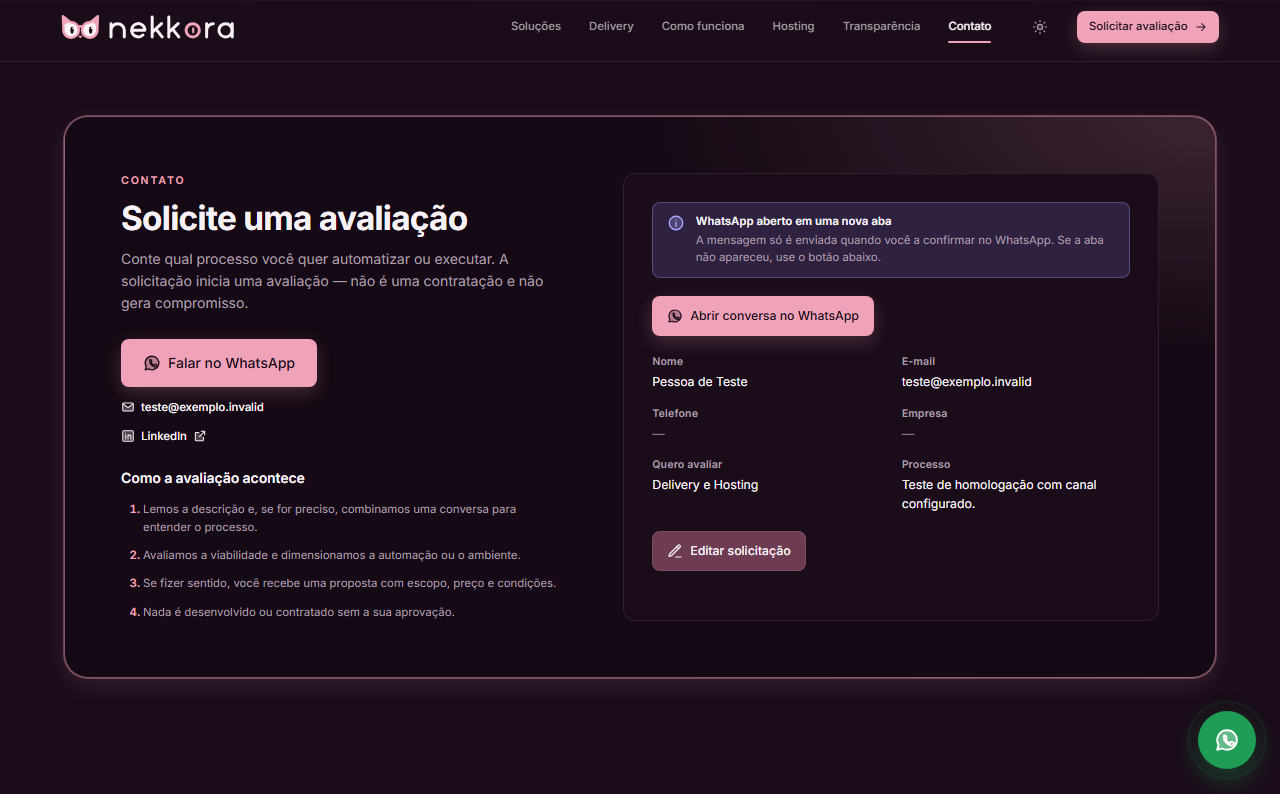
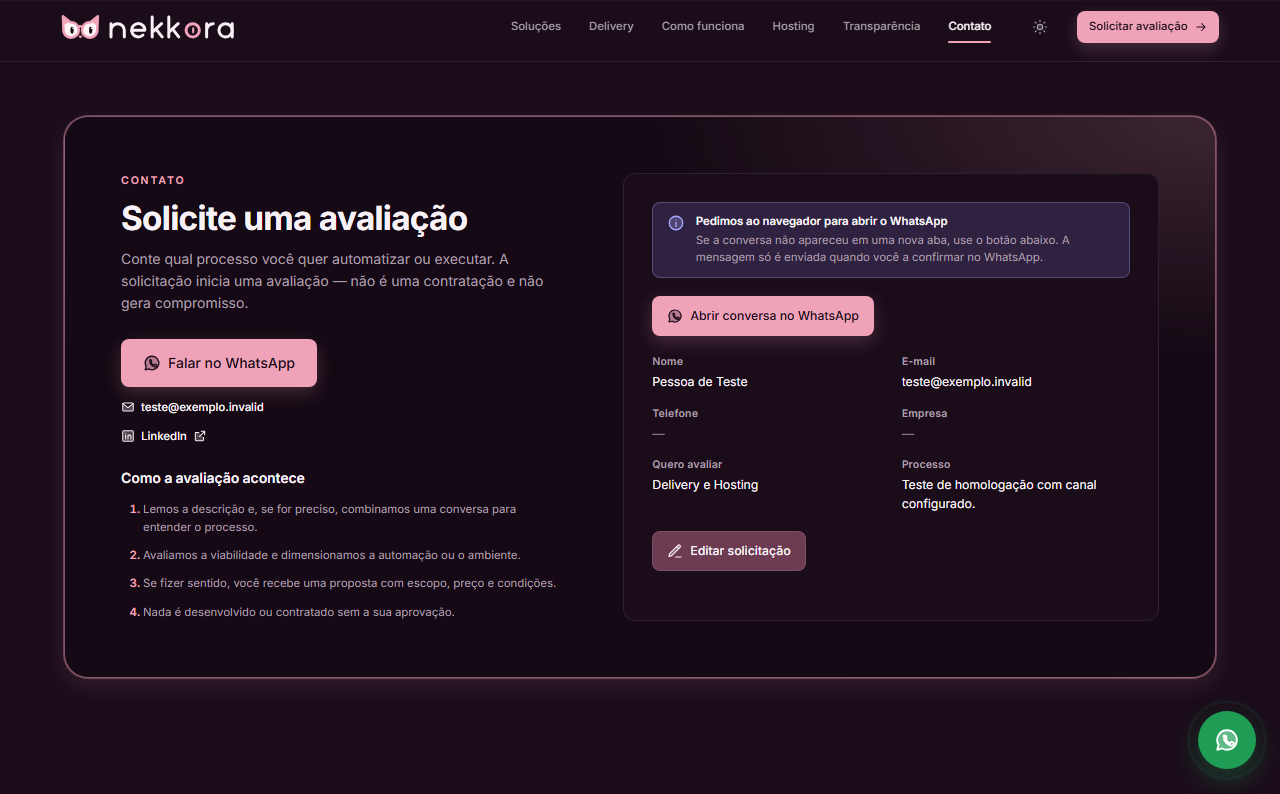
fix(com-001-r1): abrir WhatsApp com noopener,noreferrer desde a abertura
Ajuste de segurança da revisão de encerramento da R1.

- window.open volta a usar 'noopener,noreferrer'. A versão anterior
  anulava o opener depois da abertura (intervalo sem garantia) e enviava o
  Referer à aba externa — comprovado em controle negativo.
- Sem detecção de aba: a página diz só que pediu a abertura e mostra
  sempre o link manual (rel="noopener noreferrer") com a mensagem pronta.
- homologacao-canais: wa.me respondido por página local; opener e Referer
  medidos na aba aberta, sem mascarar erros (16/16). Controle negativo
  registrado em docs/com-001/evidencias/controle-negativo-r1.

Changed region(s): [[0.5312, 0.272, 0.8438, 0.3325]]

diff --git a/src/sections/Contact.tsx b/src/sections/Contact.tsx
@@ -24,8 +24,8 @@ function ContactForm() {
   const [message, setMessage] = useState('');
   const [errors, setErrors] = useState<Errors>({});
   const [reviewed, setReviewed] = useState(false);
-  /** Resultado da tentativa de abrir o WhatsApp: só "aberto" se o navegador devolveu a nova aba. */
-  const [whatsapp, setWhatsapp] = useState<{ url: string; opened: boolean } | null>(null);
+  /** Link do WhatsApp com a mensagem montada — exibido sempre como alternativa manual. */
+  const [whatsapp, setWhatsapp] = useState<string | null>(null);
   const canSend = whatsappUrl() != null;
   const interestLabel = CONTACT_COPY.interests.find((i) => i.value === interest)?.label;
 
@@ -55,11 +55,11 @@ function ContactForm() {
         `Contato: ${email.trim()}${phone ? ` · ${phone}` : ''}`,
       ].join('\n\n');
       const url = whatsappUrl(text)!;
-      // Sem "noopener" na lista de features: com ele, window.open devolve sempre null e não dá para saber se o
-      // navegador bloqueou a aba. O vínculo com esta página é cortado logo em seguida (mesmo efeito do noopener).
-      const win = window.open(url, '_blank');
-      if (win) win.opener = null;
-      setWhatsapp({ url, opened: win != null });
+      // noopener,noreferrer desde a abertura: a aba externa nunca recebe referência a esta página nem o Referer.
+      // Com essas features o navegador não informa se a aba foi criada, então a página só diz que a abertura foi
+      // solicitada e oferece sempre o link manual (D-18).
+      window.open(url, '_blank', 'noopener,noreferrer');
+      setWhatsapp(url);
     }
     setReviewed(true);
   };
@@ -74,14 +74,10 @@ function ContactForm() {
       <div ref={doneRef} tabIndex={-1} className="contact__form contact__done">
         {whatsapp ? (
           <>
-            <Alert
-              tone={whatsapp.opened ? 'info' : 'warning'}
-              title={whatsapp.opened ? CONTACT_COPY.whatsappOpened.title : CONTACT_COPY.whatsappBlocked.title}
-              live="polite"
-            >
-              {whatsapp.opened ? CONTACT_COPY.whatsappOpened.text : CONTACT_COPY.whatsappBlocked.text}
+            <Alert tone="info" title={CONTACT_COPY.whatsappRequested.title} live="polite">
+              {CONTACT_COPY.whatsappRequested.text}
             </Alert>
-            <Button leftIcon="whatsapp" href={whatsapp.url} target="_blank" rel="noopener noreferrer" style={{ alignSelf: 'flex-start' }}>
+            <Button leftIcon="whatsapp" href={whatsapp} target="_blank" rel="noopener noreferrer" style={{ alignSelf: 'flex-start' }}>
               {CONTACT_COPY.whatsappManual}
             </Button>
           </>

diff --git a/src/content.ts b/src/content.ts
@@ -301,14 +301,10 @@ export const CONTACT_COPY = {
   demoSubmit: 'Revisar solicitação',
   whatsappSubmit: 'Enviar pelo WhatsApp',
   whatsappNote: 'Ao enviar, abrimos o WhatsApp com a sua mensagem pronta. Nada é armazenado nesta página.',
-  // Nunca afirmar envio: a página só sabe se a aba foi aberta, não se a mensagem foi enviada.
-  whatsappOpened: {
-    title: 'WhatsApp aberto em uma nova aba',
-    text: 'A mensagem só é enviada quando você a confirmar no WhatsApp. Se a aba não apareceu, use o botão abaixo.',
-  },
-  whatsappBlocked: {
-    title: 'Não foi possível abrir o WhatsApp automaticamente',
-    text: 'O navegador bloqueou a nova aba. Use o botão abaixo para abrir a conversa com a mensagem pronta.',
+  // Nunca afirmar abertura nem envio: com noopener o navegador não informa se a aba foi criada (D-18).
+  whatsappRequested: {
+    title: 'Pedimos ao navegador para abrir o WhatsApp',
+    text: 'Se a conversa não apareceu em uma nova aba, use o botão abaixo. A mensagem só é enviada quando você a confirmar no WhatsApp.',
   },
   whatsappManual: 'Abrir conversa no WhatsApp',
   demoResult: {

diff --git a/docs/com-001/09-relatorio-qualidade.md b/docs/com-001/09-relatorio-qualidade.md
@@ -14,7 +14,8 @@ Saída integral dos comandos: [evidencias/comandos.txt](evidencias/comandos.txt)
 | `npm run check` | exit 0 (typecheck + build) |
 | `npm run texto` | exit 0 — gerou `05-texto-comercial.md` a partir de `src/content.ts` |
 | `npm run homologacao` (estado padrão, sem canais) | **54 verificações, 0 falhas** — [resumo](evidencias/depois/resumo.md) (50 na entrega inicial + 4 do acordeão na R1) |
-| `scripts/homologacao-canais.mjs` (build temporário com canais de teste) | **14 verificações, 0 falhas** — [resultados](evidencias/canais/resultados.json) (inclui aba aberta e aba bloqueada, R1) |
+| `scripts/homologacao-canais.mjs` (build temporário com canais de teste) | **16 verificações, 0 falhas** — [resultados](evidencias/canais/resultados.json) (aba aberta e aba bloqueada; `opener` e Referer medidos na aba) |
+| Controle negativo da abertura do WhatsApp (implementação anterior) | 2 falhas esperadas, entre elas o Referer vazando — [LEIA-ME](evidencias/controle-negativo-r1/LEIA-ME.md) |
 | Mesma homologação sobre a V1 (linha de base) | 39 verificações, **23 falhas** — [resumo](evidencias/antes/resumo.md) |
 
 O projeto **não tem testes unitários nem lint** (não havia na base, e a missão não autorizou novas dependências).
@@ -34,7 +35,7 @@ A verificação comportamental é feita pelos scripts em navegador real descrito
 | Formulário | 7 campos marcados inválidos (nome, e-mail, 4 rádios, descrição); foco no primeiro erro; modo demonstração com resumo; sem pop-up, navegação ou requisição; resumo focado e visível abaixo da barra fixa | 6/6 |
 | Rede e console | Nenhuma requisição externa além da fonte Inter importada pela lib; console sem erros nem avisos | 2/2 |
 | Hosting no celular (R1) | Acordeão com 8 itens recolhidos; "Como é contratado" visível nos 8 resumos; Enter abre, Espaço fecha, foco visível; desktop com 8 definições visíveis | 4/4 |
-| Canais configurados (build de teste) | WhatsApp, e-mail e LinkedIn viram links; Instagram com URL de página inicial é **rejeitado**; botão flutuante volta; o formulário abre o WhatsApp com a mensagem montada. **R1:** com a aba aberta, a página não afirma envio, a aba fica sem `opener` e o link manual aparece; com a aba bloqueada (`window.open` → `null`), aparecem o aviso e o link manual com a mensagem | 14/14 |
+| Canais configurados (build de teste) | WhatsApp, e-mail e LinkedIn viram links; Instagram com URL de página inicial é **rejeitado**; botão flutuante volta; o formulário pede a abertura do WhatsApp com a mensagem montada (o `wa.me` é respondido por uma página local de teste). Medido na aba aberta: `opener` nulo, sem cabeçalho Referer e com `document.referrer` vazio. A mensagem neutra é a mesma com a aba aberta ou bloqueada, e o link manual (`noopener noreferrer`) está sempre presente | 16/16 |
 
 ## 3. Problemas resolvidos (V1 → COM-001)
 
@@ -51,7 +52,7 @@ A verificação comportamental é feita pelos scripts em navegador real descrito
 | 9 | Resumo do formulário escondido sob a barra fixa | — | OK, com verificação de posição |
 | 10 | `aria-labelledby` em `div` sem papel (introduzido e corrigido nesta missão) | axe `incomplete` | Removido |
 | 11 | Brilhos decorativos reduzindo o contraste real (achado pela medição por pixels) | 3,5–4,3:1 | ≥ 4,59:1 (D-16) |
-| 12 | **R1:** sucesso do WhatsApp anunciado sem confirmação (`window.open` com `noopener` devolve sempre `null`) | Revisão do PR #1 | Resultado verificado, aviso de bloqueio e link manual (D-18) |
+| 12 | Sucesso do WhatsApp anunciado sem confirmação; na 1ª versão da R1, a abertura sem `noopener,noreferrer` enviava o Referer | Revisões do PR #1; controle negativo | `noopener,noreferrer` desde a abertura, mensagem neutra e link manual sempre visível (D-18) |
 | 13 | **R1:** página mobile extensa | ~14.300 px | 13.735 px, com acordeão do Hosting (D-17) |
 | 14 | **R1:** `.gitignore` sem proteção para `.env` | Alteração local não versionada | PR #2 isolado |
 
@@ -78,7 +79,10 @@ A verificação comportamental é feita pelos scripts em navegador real descrito
   está em Delivery, Transparência e Contato. Novas reduções exigiriam esconder conteúdo de outras seções, decisão
   comercial a tomar na homologação visual.
 - **Bloqueio de pop-up simulado.** O cenário de aba bloqueada sobrescreve `window.open` para devolver `null`, que é o
-  contrato dos bloqueadores. O bloqueador real de cada navegador não foi exercitado.
+  contrato dos bloqueadores. O bloqueador real de cada navegador não foi exercitado. Como a página já não depende do
+  retorno de `window.open`, o resultado não muda com o bloqueador.
+- **Corrida do `opener` não reproduzida.** No Chromium, anular o `opener` logo após a abertura já impedia o acesso.
+  A correção não depende disso: aplica `noopener` desde a abertura.
 
 ## 5. Avaliação comercial
 

diff --git a/docs/com-001/04-arquitetura-ux.md b/docs/com-001/04-arquitetura-ux.md
@@ -69,7 +69,7 @@ O texto `muted` não é usado em conteúdo informativo da página: o aviso do fo
 | D-14 | Tagline oficial fora do rodapé | "AUTOMATE · OBSERVE · EVOLVE" poderia sugerir monitoramento incluído (B-01) | Nada mudou na lib; outras aplicações seguem usando a tagline |
 | D-15 | Aviso "Versão para homologação" no rodapé (`PREVIEW_NOTICE`) | Deixa claro que esta versão não está publicada | Desligar só com autorização de publicação |
 | D-17 | **R1 —** Catálogo do Hosting em acordeão nativo (`<details>`/`<summary>`) até 640 px; expandido em tablet e desktop | Revisão do PR #1: página mobile longa. A condição "Como é contratado" fica **no resumo**, sempre visível; só a definição do serviço recolhe | Teclado nativo (Tab, Enter, Espaço), foco visível com `--nk-focus-ring`, sem dependência nova. Altura mobile 375 px: ~14.300 → 13.735 px |
-| D-18 | **R1 —** WhatsApp: `window.open` sem `noopener` nas features (com ele o retorno é sempre `null`) + `opener = null` em seguida; mensagem conforme o resultado e link manual sempre presente | Revisão do PR #1: não afirmar sucesso sem confirmação | Aba aberta → "WhatsApp aberto em uma nova aba — a mensagem só é enviada quando você a confirmar". Aba bloqueada → aviso + "Abrir conversa no WhatsApp" |
+| D-18 | WhatsApp: `window.open(url, '_blank', 'noopener,noreferrer')` **desde a abertura**. A página não tenta detectar se a aba foi criada: diz só "Pedimos ao navegador para abrir o WhatsApp" e mostra **sempre** o link manual (`rel="noopener noreferrer"`) com a mensagem pronta | Revisões do PR #1: não afirmar sucesso sem confirmação; a 1ª versão da R1 (sem `noopener` + `opener = null` depois) deixava um intervalo sem garantia e **enviava o Referer** à aba externa (comprovado no [controle negativo](evidencias/controle-negativo-r1/LEIA-ME.md)) | Mesmo texto com aba aberta ou bloqueada. Medido na aba: `opener` nulo e sem Referer |
 | D-16 | Brilhos decorativos com intensidade por modo (`--glow-hero`/`--glow-contact`: 16/18 % escuros, 7/10 % claros) e bloco de contato sobre `surface-sunken`, com o brilho atrás do formulário | Medição por pixels: no Sage Light mobile o brilho do hero baixava o texto secundário a 4,32:1; no Sakura Dark o `Alert` de aviso ficava em 3,5–4,1:1 | Variáveis locais de composição, sem alterar token da lib |
 
 ## 4. Inventário de assets

diff --git a/docs/com-001/07-checklist-homologacao.md b/docs/com-001/07-checklist-homologacao.md
@@ -36,7 +36,7 @@ NEKKORA_PW_MODULES=../Nekkora-Platform-Web/node_modules npm run homologacao -- h
 - [ ] **[auto]** Nenhum link para WhatsApp, e-mail ou rede social sem valor confirmado; sem botão flutuante.
 - [ ] **[auto]** Formulário: erros em nome, e-mail, interesse e descrição; foco vai ao primeiro erro.
 - [ ] **[auto]** Formulário válido mostra "envio desativado" e o resumo, sem abrir janela e sem requisição externa.
-- [ ] **[auto, build de teste]** Com canais preenchidos, os links aparecem, URLs inválidas são rejeitadas e o WhatsApp abre com a mensagem montada, sem afirmar envio; se o navegador bloquear a aba, aparecem o aviso e o link manual ([evidencias/canais](evidencias/canais/resultados.json)).
+- [ ] **[auto, build de teste]** Com canais preenchidos, os links aparecem, URLs inválidas são rejeitadas e a abertura do WhatsApp é pedida com `noopener,noreferrer` (sem `opener` e sem Referer na aba), com mensagem neutra e link manual sempre visível, mesmo com a aba bloqueada ([evidencias/canais](evidencias/canais/resultados.json)).
 - [ ] **[manual]** Antes de publicar: preencher os canais reais em `src/config.ts` e conferir cada link manualmente.
 
 ## Visual e acessibilidade

diff --git a/docs/com-001/evidencias/controle-negativo-r1/LEIA-ME.md b/docs/com-001/evidencias/controle-negativo-r1/LEIA-ME.md
@@ -1,0 +1,15 @@
+# Controle negativo — abertura do WhatsApp (revisão de encerramento da R1)
+
+Build temporário com a implementação **anterior** (`window.open(url, '_blank')` seguido de `opener = null`), canais de
+teste em `src/config.ts` (WhatsApp e e-mail; LinkedIn não configurado) e fontes restauradas em seguida. Executado com
+`scripts/homologacao-canais.mjs`, o `wa.me` sendo respondido por página local.
+
+Resultado: **16 verificações, 2 falhas**, ambas esperadas:
+
+- `aba-sem-referer` — **FALHA**: a aba recebia `Referer: http://127.0.0.1:4176/` (e `document.referrer`). Esse é o
+  vazamento que a volta de `noopener,noreferrer` elimina; na versão final a mesma verificação passa (Referer ausente).
+- `linkedin-perfil-exibido` — falha esperada: o controle não configurou LinkedIn.
+
+`aba-sem-opener` passou também no controle: no Chromium, a anulação do `opener` logo após o `open` acontece antes
+de a página externa carregar. A corrida apontada na revisão não foi reproduzida, mas não há garantia disso entre
+navegadores, e por isso a correção aplica `noopener` desde a abertura.

diff --git a/docs/com-001/05-texto-comercial.md b/docs/com-001/05-texto-comercial.md
@@ -222,8 +222,7 @@ Modo demonstração: botão "Revisar solicitação"; nota "Modo de demonstraçã
 
 Com WhatsApp confirmado: botão "Enviar pelo WhatsApp"; nota "Ao enviar, abrimos o WhatsApp com a sua mensagem pronta. Nada é armazenado nesta página."
 
-- Aba aberta: **WhatsApp aberto em uma nova aba** — A mensagem só é enviada quando você a confirmar no WhatsApp. Se a aba não apareceu, use o botão abaixo.
-- Aba bloqueada: **Não foi possível abrir o WhatsApp automaticamente** — O navegador bloqueou a nova aba. Use o botão abaixo para abrir a conversa com a mensagem pronta.
+- Após enviar: **Pedimos ao navegador para abrir o WhatsApp** — Se a conversa não apareceu em uma nova aba, use o botão abaixo. A mensagem só é enviada quando você a confirmar no WhatsApp.
 - Link manual (sempre): "Abrir conversa no WhatsApp"
 
 ## 10. Rodapé

diff --git a/docs/com-001/evidencias/depois/resumo.md b/docs/com-001/evidencias/depois/resumo.md
@@ -1,4 +1,4 @@
-# Homologação automatizada — 2026-10-15T10:31:51.385Z
+# Homologação automatizada — 2026-10-15T10:38:22.980Z
 
 URL: http://127.0.0.1:4174/ · Chromium (Playwright) · 54 verificações · 0 falha(s)
 
